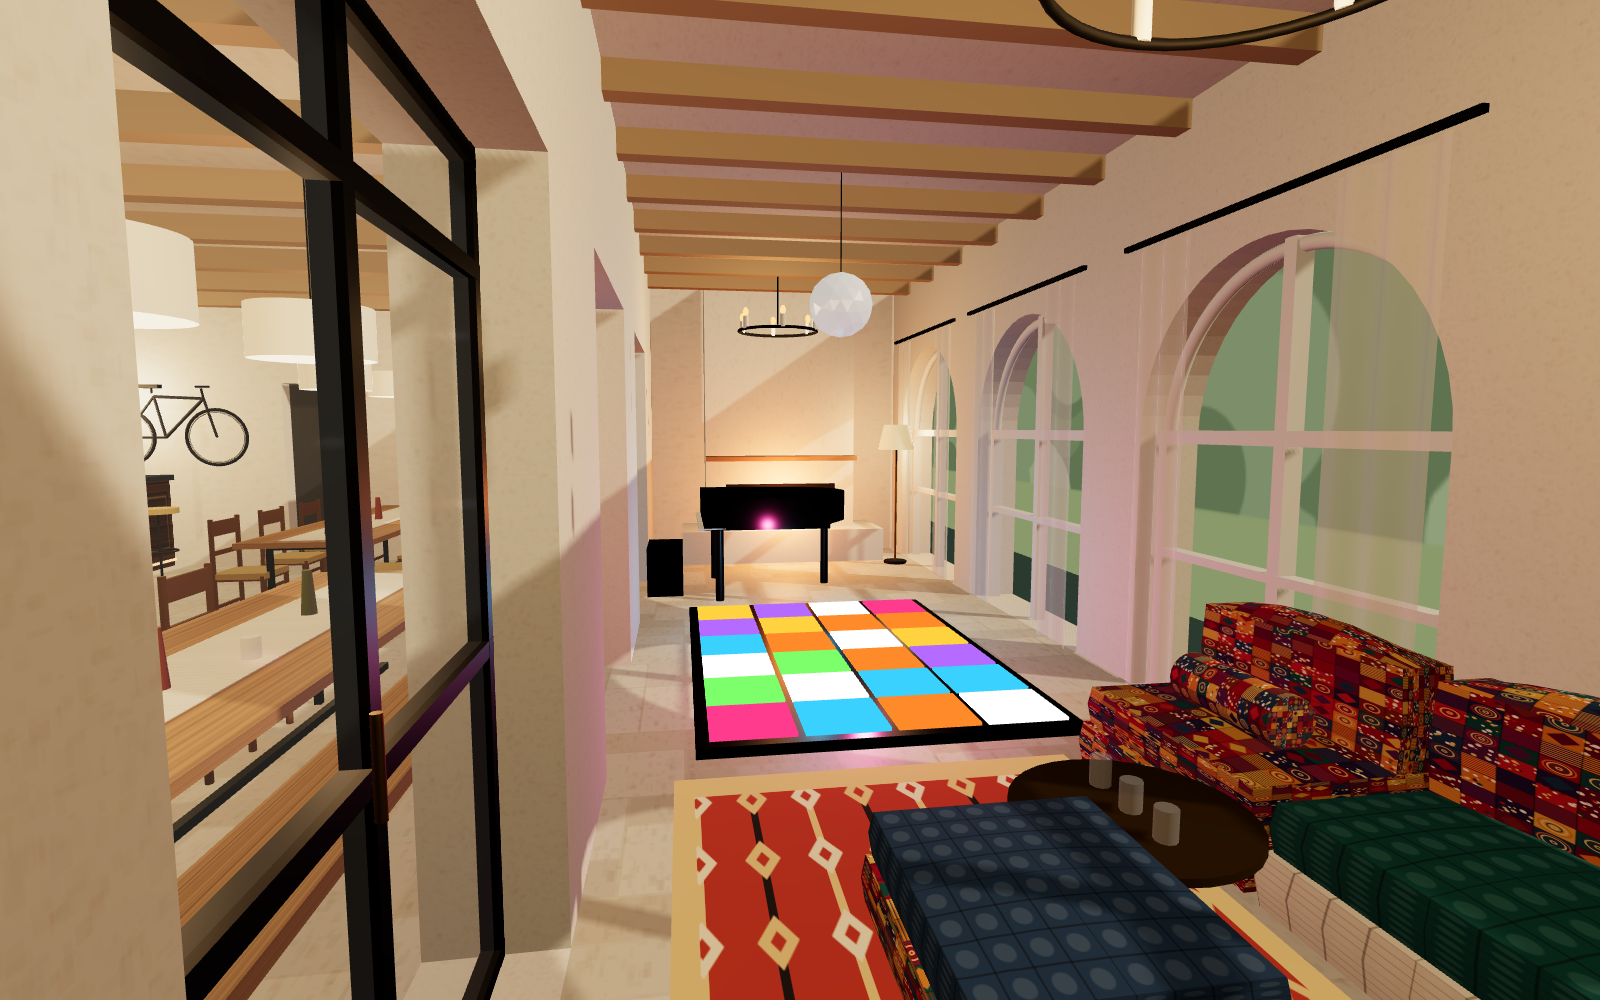
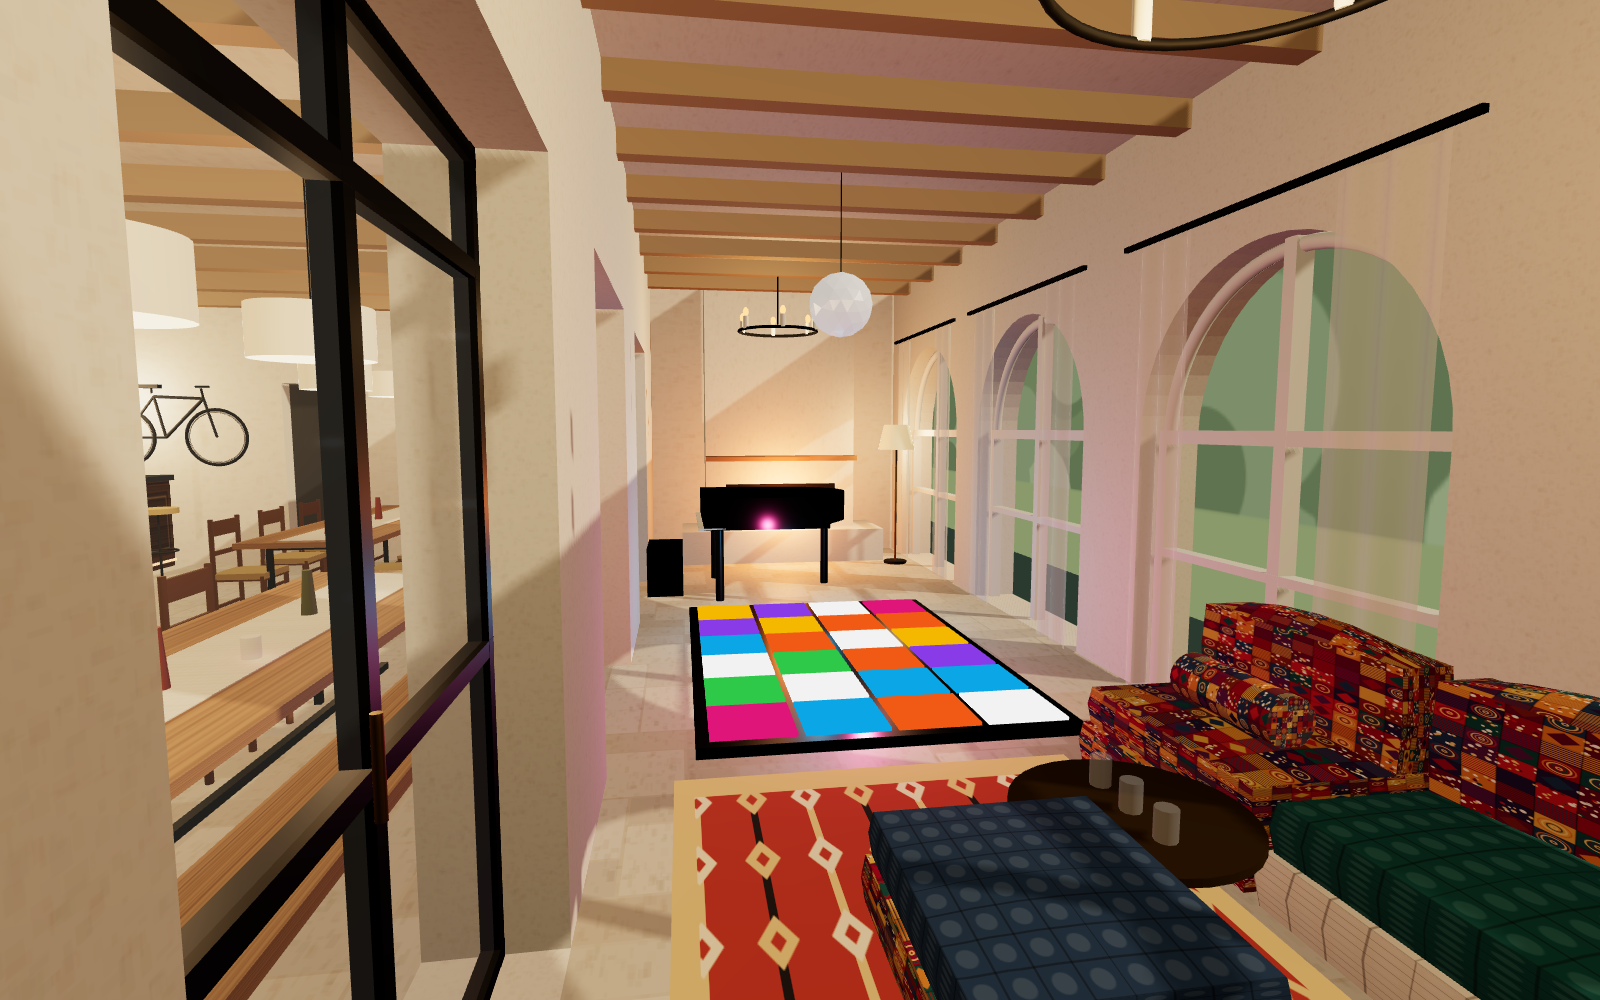
v16: colori pista più vivi
Claude-Session: https://claude.ai/code/session_01QZXxqty357DcebAAL5Vpaf

Changed region(s): [[0.4375, 0.589, 0.6562, 0.744]]

diff --git a/render-3d/v16-pista-saturday-night-fever/sorgente/v16.js b/render-3d/v16-pista-saturday-night-fever/sorgente/v16.js
@@ -583,7 +583,7 @@ for (let x = 8.3, k = 0; x < 11.8; x += 1.2, k++) {
   if (k % 2 === 0) { const b = new THREE.Mesh(new THREE.CylinderGeometry(0.11, 0.11, 0.6, 20), PM()); b.rotation.z = Math.PI / 2; b.position.set(x + 0.6, 0.5, 12.75); b.castShadow = true; scene.add(b); } }
 for (const [x, z] of [[8.6, 11.0], [9.9, 11.0]]) { soft(x, x + 1.0, 0, 0.18, z, z + 0.85, PM()); soft(x + 0.02, x + 0.98, 0.18, 0.34, z + 0.02, z + 0.83, quilt(plainCols[Math.floor(rnd() * 4)])); }
 // SATURDAY NIGHT FEVER DANCE FLOOR – coloured lit squares (about 3 x 2 m) between cushions and piano
-{ const X0 = 12.2, Z0 = 10.5, N = 6, R = 4, S = 0.5, cols = ['#ff3b8d', '#ffd23f', '#3ad1ff', '#7cff6b', '#ff8a2a', '#b56bff', '#ffffff'];
+{ const X0 = 12.2, Z0 = 10.5, N = 6, R = 4, S = 0.5, cols = ['#e0157a', '#f5b800', '#0aa6e6', '#2fc94a', '#f05a14', '#8a3be8', '#f2f2f2'];
   box(X0 - 0.05, X0 + N * S + 0.05, 0, 0.06, Z0 - 0.05, Z0 + R * S + 0.05, M('#111', { metalness: 0.6, roughness: 0.3 }));
   for (let i = 0; i < N; i++) for (let j = 0; j < R; j++) { const c = cols[(i * 3 + j * 2 + (i * j) % 3) % cols.length];
     const t = new THREE.Mesh(new THREE.BoxGeometry(S - 0.04, 0.02, S - 0.04), new THREE.MeshBasicMaterial({ color: c, toneMapped: false }));
